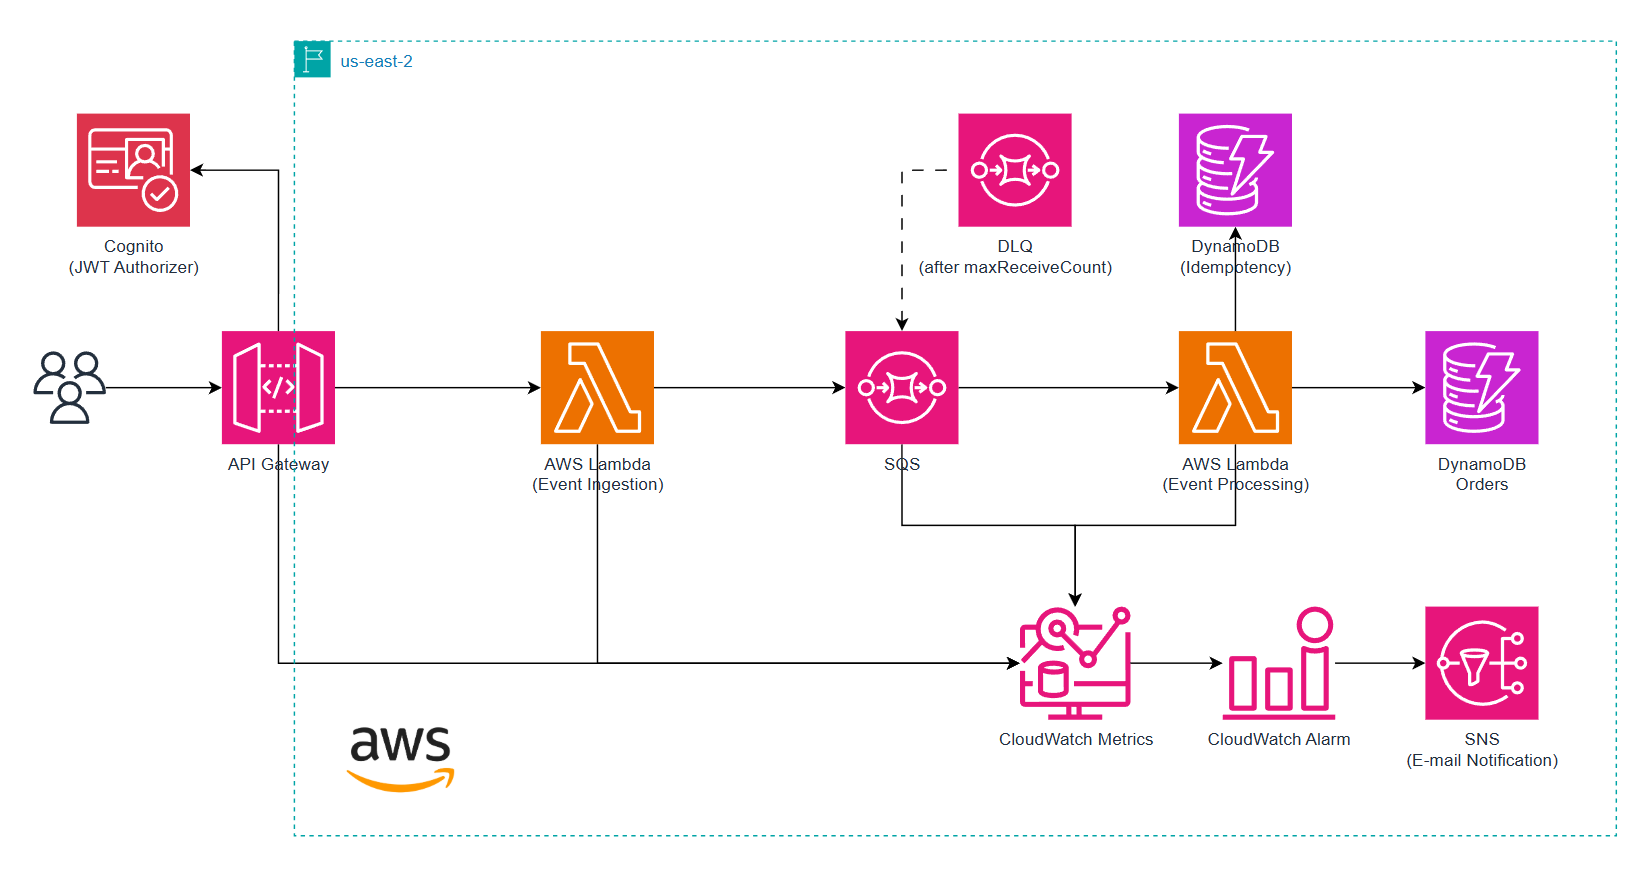
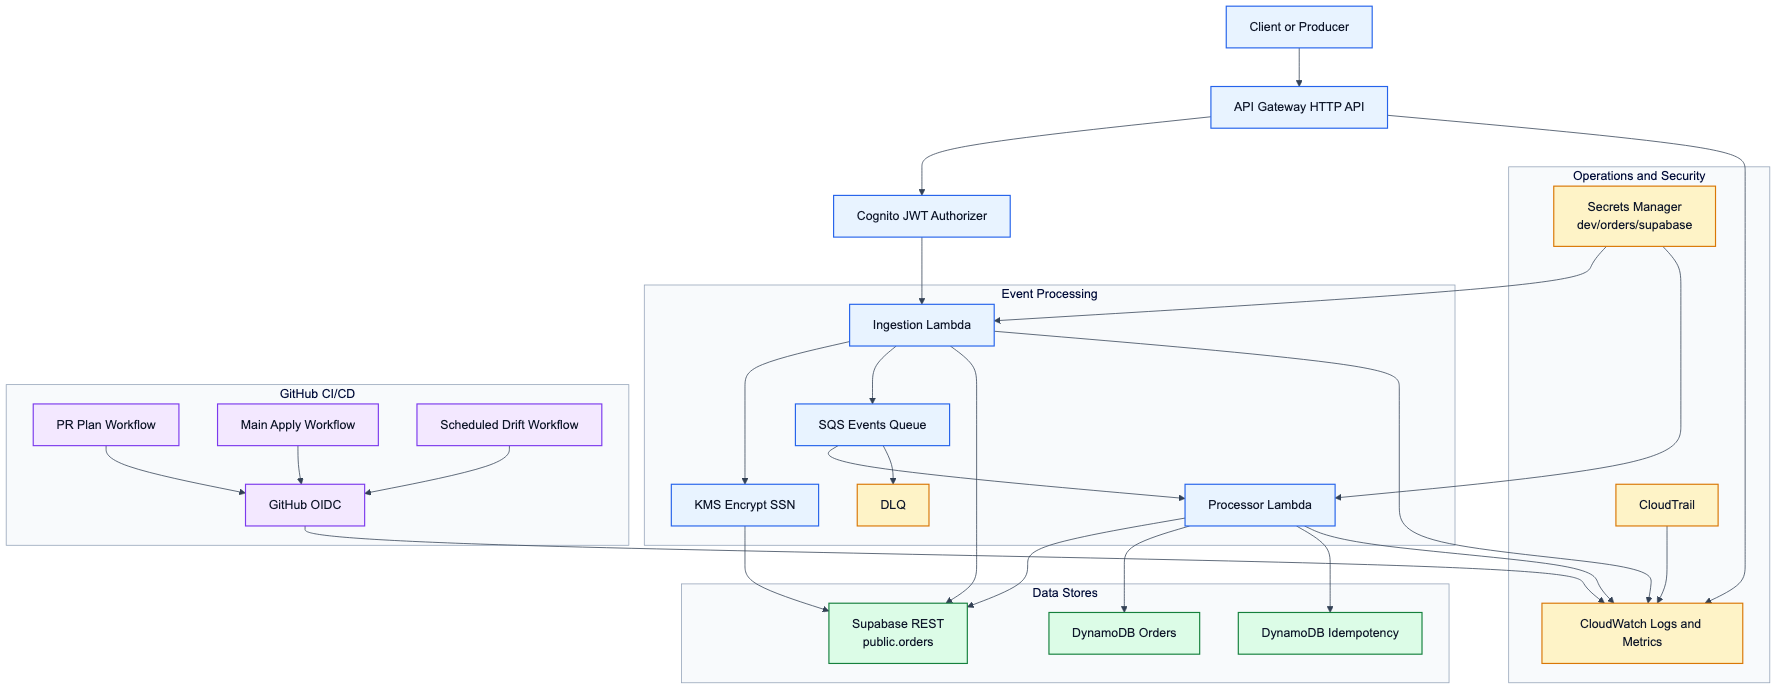
Add Mermaid architecture and CI diagrams

diff --git a/README.md b/README.md
@@ -8,6 +8,8 @@ This project is intentionally focused on practical cloud engineering: reliable a
 
 ![Architecture diagram](assets/architecture.png)
 
+Mermaid source: [assets/architecture.mmd](/Users/eltonpeixoto/dev/event-driven-observability-platform/assets/architecture.mmd:1)
+
 - **API Gateway HTTP API** exposes the event ingestion endpoint.
 - **Ingestion Lambda** validates incoming events, adds correlation metadata, emits EMF metrics, and sends accepted events to SQS.
 - **SQS queue + DLQ** decouple ingestion from processing and isolate messages that exceed retry limits.
@@ -143,6 +145,19 @@ aws secretsmanager put-secret-value \
 
 Both Lambdas load the secret at runtime from Secrets Manager. The only Supabase-related env var passed to code is `SUPABASE_SECRET_ARN`.
 
+## Sensitive Data Flow
+
+![Sensitive data flow](assets/sensitive-flow.png)
+
+Mermaid source: [assets/sensitive-flow.mmd](/Users/eltonpeixoto/dev/event-driven-observability-platform/assets/sensitive-flow.mmd:1)
+
+- Plaintext SSN exists only inside the inbound request and in-memory handling inside the ingestion Lambda.
+- The ingestion Lambda encrypts the SSN with AWS KMS immediately.
+- Supabase stores only `ssn_masked`, `ssn_encrypted`, and `encryption_version`.
+- The event published to SQS contains only masked metadata (`ssn_masked`, `ssn_ref`).
+- DynamoDB stores business data only, without SSN plaintext or ciphertext fields.
+- Logs and HTTP responses expose correlation metadata, not the SSN plaintext.
+
 ## Deploy
 
 ```bash
@@ -172,6 +187,17 @@ GitHub Actions now uses AWS OIDC with short-lived credentials and the remote Ter
 - The CI pipeline runs `npm test` before building artifacts, covering Lambda ingestion, Lambda processing, and safe log redaction behavior with mocked AWS/Supabase dependencies.
 - `alerts_email` is injected through the GitHub secret `TF_VAR_ALERTS_EMAIL`, so the workflows can plan/apply without hardcoding operational values in the repository.
 - The apply workflow targets the GitHub `dev` environment, so you can add required reviewers or wait timers in repository settings without changing code.
+
+### CI/CD Today
+
+![CI/CD current flow](assets/cicd-current.png)
+
+Mermaid source: [assets/cicd-current.mmd](/Users/eltonpeixoto/dev/event-driven-observability-platform/assets/cicd-current.mmd:1)
+
+- `terraform-plan.yml`: runs on PRs to `main`, produces the plan artifact, and never applies.
+- `terraform-apply.yml`: runs on `main` push or manual dispatch, uses the GitHub `dev` environment, and applies the approved plan path.
+- `terraform-drift.yml`: runs daily and on demand, and fails if `terraform plan -detailed-exitcode` detects drift.
+- All three workflows now pass through `npm ci`, `npm test`, `npm run build`, OIDC, `terraform init`, and `terraform validate`.
 
 ## Example Event
 
@@ -222,7 +248,7 @@ The ingestion Lambda immediately encrypts the SSN with AWS KMS, stores only ciph
 
 ## Limitations And Future Improvements
 
-- Automated tests are not implemented yet.
+- Unit tests cover ingestion, processor, and safe log redaction paths, but broader integration and end-to-end tests are still not implemented.
 - A future DLQ observer could emit `EventDeadLettered` while preserving replay/investigation semantics.
 - The current environment is a single dev deployment, not a multi-environment production module.
 - Some operational scenarios are intentionally simulated to demonstrate observability and incident response.